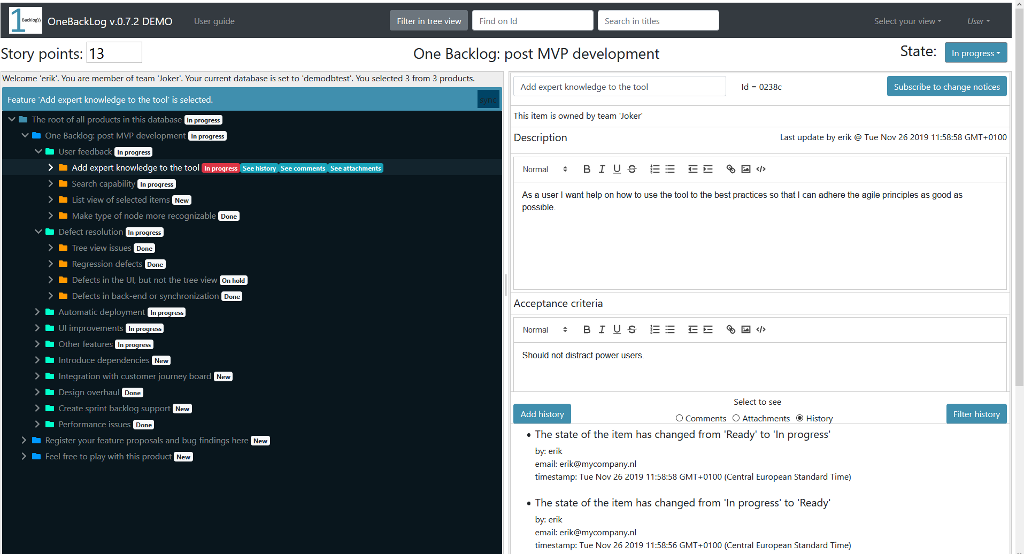
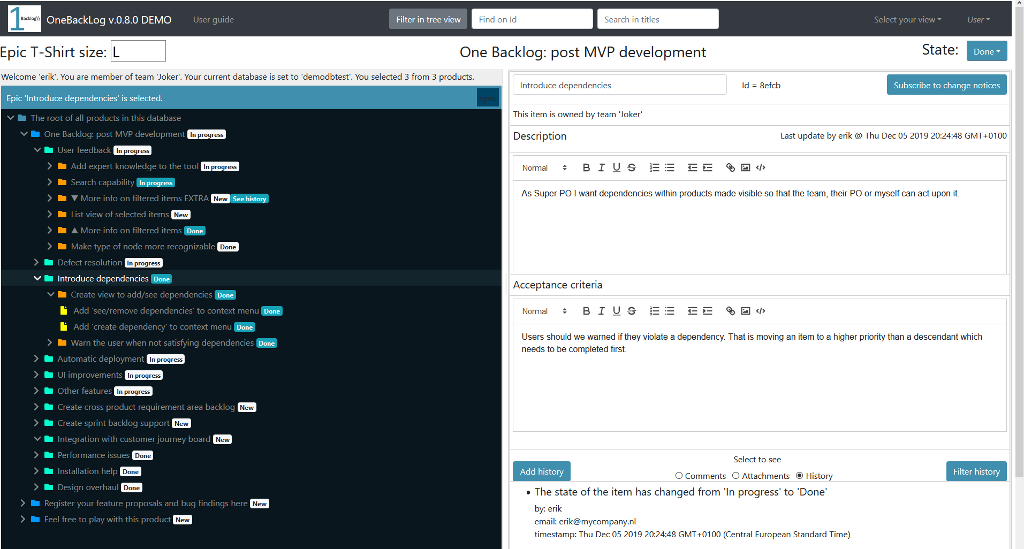
Prepare for release

diff --git a/src/components/rel-notes/rel-notes.vue b/src/components/rel-notes/rel-notes.vue
@@ -7,6 +7,23 @@
 				<h1>RELEASE NOTES</h1>
 				<p v-if=this.$store.state.demo>Note: This is a demo version of the application.</p>
 				<hr>
+				<h3>v.0.8.0 - 5 December 2019 Major update</h3>
+				<h5>Note that this release is not backwards compatible with previous releases. The ordering of the item states is changed to a more logical sequence. Databases with an older config document version will not load.</h5>
+				<p>New features:</p>
+				<ul>
+					<li>When changing the state of an item the new state is checked against its descendants. A warning is issued if that state is incompatible. Eg. you can only set a feature to done if all descendants are done.</li>
+					<li>The dependency epic is implemented.</li>
+				</ul>
+				<hr>
+				<h3>v.0.7.1 - 16 November 2019 Feature update</h3>
+				<p>New features:</p>
+				<ul>
+					<li>The product view now has a combined filter on teams, tree depth, state and over time which can be saved for use in the next session</li>
+					<li>Product backlog items are now owned by a team</li>
+					<li>An authenticated user can assign a backlog item and its descendants to the users team</li>
+					<li>Feature teams are encouraged. A warning is shown when a user tries to assing a user story, spike or defect to a different team than the team of the parent feature</li>
+				</ul>
+				<hr>
 				<h3>v.0.7.2 - 26 November 2019 Feature update</h3>
 				<p>New features:</p>
 				<ul>

diff --git a/src/components/userguide/userguide.vue b/src/components/userguide/userguide.vue
@@ -67,6 +67,11 @@
 
 						</ul>
 					</p>
+					<p>Dependencies:</p>
+					<p>Items with dependencies on other items are designated with a ▼ symbol in front of the title name. Use the context menu to assign dependencies or to inspect or remove them.
+						When dependencies are set the items which become conditional for the dependent items are designated with a ▲ symbol. Use the context menu to inspect or remove them.
+						When after dragging items in tree one or more dependencies are violated you receive an error message.</p>
+
 					<p>Badges:</p>
 					<b-img :src="require('./badges.png')" alt="Example badges" />
 					<p>Note the badges as shown in the screen dump of the product view. These badges signal a change within the last hour. These badges are informing you of changes made by you and other users working simultaneously on the product. If the state of an item has changed the color turns sea blue. When the title, description or acceptance criteria have changed the 'See history' badge appears. When new comments or attachments are added these badges are displayed. When a badge is older than one hour it disappears when the tree is re-rendered (just click on another node). The state badge stays but looses its red color.</p>
@@ -190,7 +195,8 @@ export default {
   border: 1px solid black;
 }
 
-p, ul {
+p,
+ul {
   margin-left: 10px;
   color: black;
 }

diff --git a/src/components/header/header.js b/src/components/header/header.js
@@ -7,7 +7,7 @@ export default {
     mixins: [utilities],
     data() {
         return {
-            appVersion: "OneBackLog v.0.7.2",
+            appVersion: "OneBackLog v.0.8.0",
             oldPassword: "",
             newPassword1: "",
             newPassword2: "",
